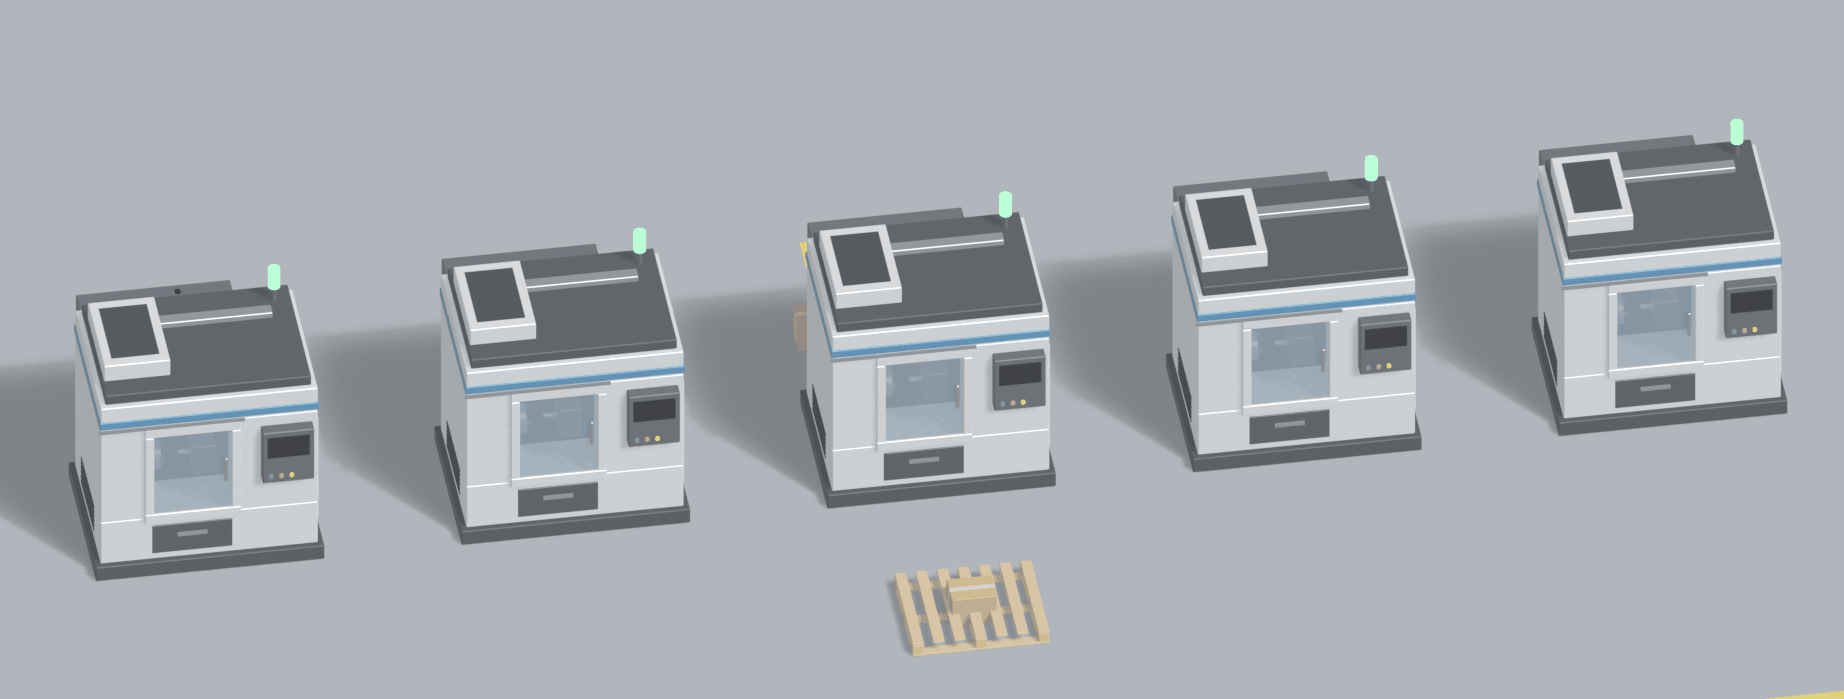
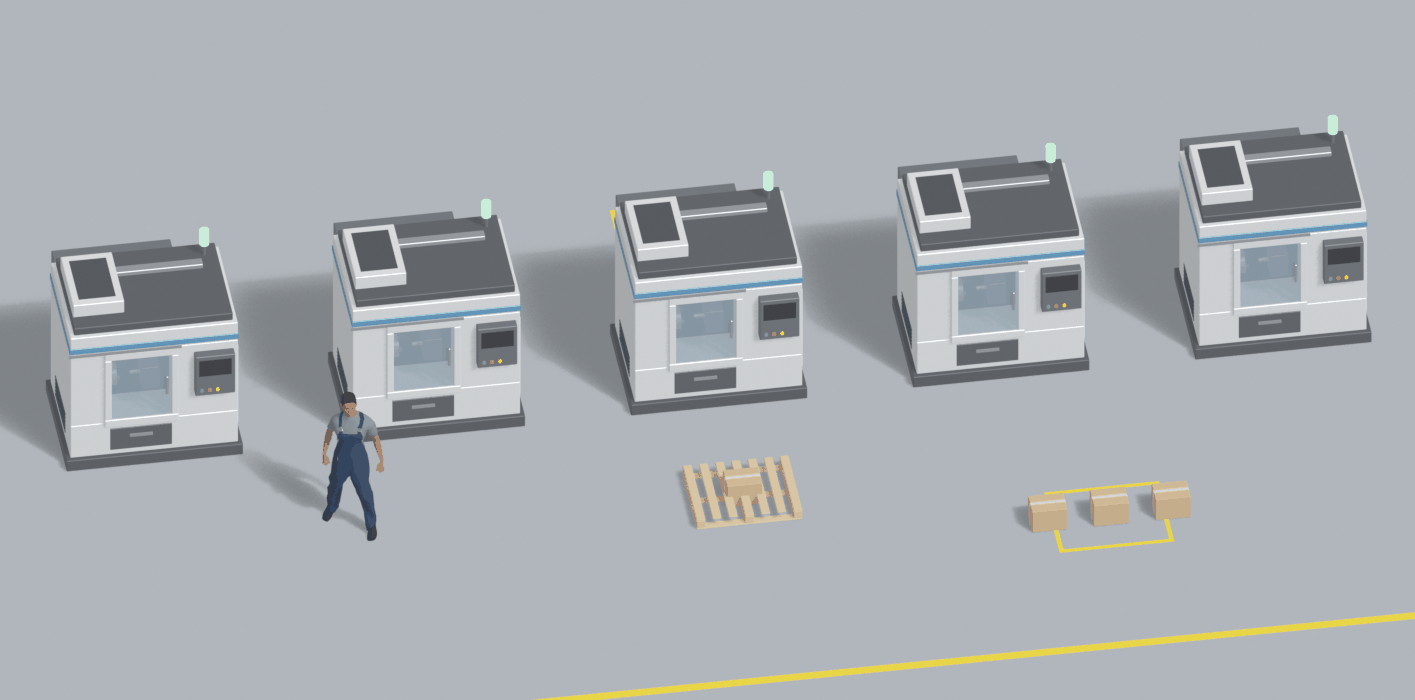
Ensino: rodada de jogo da 6.2 e carga mais rápida do pacote
Jogando a missão 6.2 pela tela: as opções com rótulos longos ficam em
coluna (a última se espremia numa coluna de uma letra), o cabeçalho diz
"Missão 6.2" (texto::f_literal) e a imagem da 6.2 tem os 3 tornos do
enunciado. O campo mover da cena traz a operadora e o estoque para a
frente das máquinas nas missões 6.1 e 6.2, só no desenho.

A conferência das métricas de um pacote roda 1/20 da simulação e só a
inteira se faltar uma chave: 0,69 s para 0,12 s na campanha.

diff --git a/crates/utsim-ensino-ui/src/missao.rs b/crates/utsim-ensino-ui/src/missao.rs
@@ -378,13 +378,18 @@ fn alavanca(ui: &mut Ui, a: &Alavanca, v: &mut f64, id: &str) -> bool {
         Alavanca::Escolha { opcoes, rotulo, .. } => {
             ui.label(rotulo);
             let mut sel = v.round().max(0.0) as usize;
-            ui.horizontal_wrapped(|ui| {
-                for (i, o) in opcoes.iter().enumerate() {
-                    let r = if o.custo > 0.0 {
+            let rotulos: Vec<String> = opcoes
+                .iter()
+                .map(|o| {
+                    if o.custo > 0.0 {
                         format!("{} ({})", o.rotulo, dinheiro(o.custo))
                     } else {
                         o.rotulo.clone()
-                    };
+                    }
+                })
+                .collect();
+            em_linha_ou_coluna(ui, &rotulos, |ui| {
+                for (i, r) in rotulos.iter().enumerate() {
                     ui.push_id((id, i), |ui| ui.radio_value(&mut sel, i, r));
                 }
             });
@@ -417,7 +422,7 @@ pub fn tela_missao(app: &mut App, ui: &mut Ui) {
             app.tela = Tela::Mapa;
         }
         ui.label(
-            RichText::new(texto::f(
+            RichText::new(texto::f_literal(
                 texto::missao_numero(),
                 &[&numero_missao(&m.pacote, m.indice)],
             ))
@@ -609,7 +614,8 @@ pub fn tela_missao(app: &mut App, ui: &mut Ui) {
                         Some(RespostaPrevisao::Escolha(i)) => Some(*i),
                         _ => None,
                     };
-                    ui.horizontal_wrapped(|ui| {
+                    let rotulos: Vec<&str> = opcoes.iter().map(|o| o.rotulo.as_str()).collect();
+                    em_linha_ou_coluna(ui, &rotulos, |ui| {
                         for (i, o) in opcoes.iter().enumerate() {
                             if ui.radio(atual == Some(i), &o.rotulo).clicked() {
                                 m.tentativa
@@ -772,7 +778,7 @@ pub fn tela_missao(app: &mut App, ui: &mut Ui) {
         ui.label(RichText::new(texto::missao_justificativa()).strong());
         for (qi, q) in missao.justificativa.iter().enumerate() {
             ui.label(&q.pergunta);
-            ui.horizontal_wrapped(|ui| {
+            em_linha_ou_coluna(ui, &q.opcoes, |ui| {
                 for (i, o) in q.opcoes.iter().enumerate() {
                     let sel = m.tentativa.justificativas.get(qi).copied().flatten() == Some(i);
                     if ui.radio(sel, o).clicked() {
@@ -1263,4 +1269,16 @@ pub fn tela_areia(app: &mut App, ui: &mut Ui) {
             });
         }
     });
+}
+
+/// Options side by side when they are short, one under the other when long: a long label at
+/// the end of a row would wrap into a column one word wide.
+fn em_linha_ou_coluna<S: AsRef<str>>(ui: &mut Ui, rotulos: &[S], conteudo: impl FnOnce(&mut Ui)) {
+    let total: usize = rotulos.iter().map(|r| r.as_ref().chars().count() + 6).sum();
+    // About 7 points a character in the body font.
+    if total as f32 * 7.0 <= ui.available_width() {
+        ui.horizontal_wrapped(conteudo);
+    } else {
+        ui.vertical(conteudo);
+    }
 }

diff --git a/crates/utsim-ensino-core/src/cena.rs b/crates/utsim-ensino-core/src/cena.rs
@@ -46,6 +46,10 @@ pub struct Cena {
     /// Stations drawn without an operator.
     #[serde(default, skip_serializing_if = "Vec::is_empty")]
     pub sem_pessoa: Vec<String>,
+    /// Objects moved in the picture only, `[dx, dy]` in metres of the scene, when the model
+    /// puts them where the camera does not see them (an operator behind her machines).
+    #[serde(default, skip_serializing_if = "BTreeMap::is_empty")]
+    pub mover: BTreeMap<String, [f64; 2]>,
     /// Processors drawn as one element whatever their capacity (an oven that bakes two
     /// at a time is one oven).
     #[serde(default, skip_serializing_if = "Vec::is_empty")]
@@ -351,9 +355,10 @@ impl Cena {
                 let pessoa = (trabalho && !tem_pessoas && !self.sem_pessoa.contains(&o.name))
                     .then(|| self.pessoas.get(&o.name).cloned().unwrap_or_else(&mut sexo));
                 let desvio = (k as f64 - (copias - 1) as f64 / 2.0) * PASSO_COPIAS;
+                let [mx, my] = self.mover.get(&o.name).copied().unwrap_or([0.0, 0.0]);
                 let (mut x, y) = (
-                    o.position[0] * self.escala,
-                    o.position[1] * self.escala + desvio,
+                    o.position[0] * self.escala + mx,
+                    o.position[1] * self.escala + desvio + my,
                 );
                 // Mobile resources start on the same spot (four AGVs at the dock): side by
                 // side, so all of them show.
@@ -461,6 +466,7 @@ impl Cena {
             .chain(&self.ocultar)
             .chain(&self.sem_pessoa)
             .chain(&self.sem_copias)
+            .chain(self.mover.keys())
             .chain(self.pessoas.keys())
             .chain(self.pecas.iter().map(|p| &p.no))
         {

diff --git a/crates/utsim-ensino-core/src/validar.rs b/crates/utsim-ensino-core/src/validar.rs
@@ -248,14 +248,28 @@ pub fn validar_missao(missao: &Missao, modelo: &Model) -> Result<(), Vec<String>
         }
     }
     if erros.is_empty() && !do_modelo.is_empty() {
-        let mut m = modelo.clone();
-        m.run.replications = 1;
-        match m.run_replications() {
-            Ok(reports) => {
-                let conhecidas: BTreeSet<String> = reports
+        // The keys of the model come from a run. A short one (a twentieth of the horizon)
+        // usually shows them all; a key that only appears with a rare event (a breakdown)
+        // asks for the whole run, as the student's.
+        let rodar = |fracao: f64| {
+            let mut m = modelo.clone();
+            m.run.replications = 1;
+            let w = m.run.warmup.max(0.0);
+            m.run.stop_time = w + (m.run.stop_time - w).max(0.0) * fracao;
+            m.run_replications().map(|reports| {
+                reports
                     .iter()
                     .flat_map(|r| r.metrics().into_keys())
-                    .collect();
+                    .collect::<BTreeSet<String>>()
+            })
+        };
+        let faltam = |c: &BTreeSet<String>| do_modelo.iter().any(|(_, k)| !c.contains(k));
+        let conhecidas = match rodar(0.05) {
+            Ok(c) if !faltam(&c) => Ok(c),
+            _ => rodar(1.0),
+        };
+        match conhecidas {
+            Ok(conhecidas) => {
                 for (onde, k) in do_modelo {
                     if !conhecidas.contains(&k) {
                         erros.push(format!("'{onde}': a métrica '{k}' não sai do modelo"));

diff --git a/crates/utsim-ensino-core/tests/cena.rs b/crates/utsim-ensino-core/tests/cena.rs
@@ -343,3 +343,29 @@ fn modelagem_desenha_o_gabarito_sem_copias() {
     let forno = p.objetos.iter().find(|o| o.nome == "forno").unwrap();
     assert_eq!(forno.elemento, "cnc");
 }
+
+#[test]
+fn mover_tira_a_operadora_de_tras_das_maquinas() {
+    let (m, modelo) = com_cena()
+        .into_iter()
+        .find(|(m, _)| m.id == "ato6/trabalho_externo")
+        .unwrap();
+    let c = m.cena.as_ref().unwrap();
+    let p = c.planta(&modelo, None);
+    // Ana stands at y = 1 in the model, behind the machines; the picture brings her to the
+    // front (the camera looks from -y), and the simulation keeps her place.
+    let ana = p.objetos.iter().find(|o| o.nome == "ana").unwrap();
+    assert!(ana.y < 0.0, "{}", ana.y);
+    assert_eq!(
+        modelo
+            .objects
+            .iter()
+            .find(|o| o.name == "ana")
+            .unwrap()
+            .position[1],
+        1.0
+    );
+    // Three lathes, as the statement says.
+    let maquinas = p.objetos.iter().filter(|o| o.elemento == "cnc").count();
+    assert_eq!(maquinas, 3);
+}

diff --git a/crates/utsim-ensino-ui/src/texto.rs b/crates/utsim-ensino-ui/src/texto.rs
@@ -45,6 +45,18 @@ pub fn f(modelo: Modelo, valores: &[&dyn Display]) -> String {
     TEXTOS.f(modelo.chave, &args)
 }
 
+/// Like [`f`], with every value kept as written: a mission number `6.2` is not a decimal
+/// (it would become `6,2`).
+pub fn f_literal(modelo: Modelo, valores: &[&str]) -> String {
+    let args: Vec<(&str, utsim_idiomas::Valor)> = modelo
+        .nomes
+        .iter()
+        .zip(valores)
+        .map(|(n, v)| (*n, v.to_string().into()))
+        .collect();
+    TEXTOS.f(modelo.chave, &args)
+}
+
 fn valor(s: String) -> utsim_idiomas::Valor<'static> {
     if let Ok(n) = s.parse::<i64>()
         && n.to_string() == s

diff --git a/crates/utsim-ensino-core/src/editor_cena.rs b/crates/utsim-ensino-core/src/editor_cena.rs
@@ -200,6 +200,7 @@ impl Edicao {
             ocultar: Vec::new(),
             sem_pessoa: Vec::new(),
             sem_copias: Vec::new(),
+            mover: BTreeMap::new(),
             pessoas: BTreeMap::new(),
             pecas: Vec::new(),
             cartoes,

diff --git a/CHANGELOG.md b/CHANGELOG.md
@@ -7,6 +7,8 @@ O formato segue o [Keep a Changelog](https://keepachangelog.com/pt-BR/1.1.0/) e 
 ## [Não lançado]
 
 ### Mudado
+- UTSim Ensino, rodada de jogo (missão 6.2 do começo ao fim): as opções de uma alavanca, de uma previsão ou de uma justificativa com rótulos longos ficam uma embaixo da outra (antes, a última se espremia numa coluna de uma letra por linha); o cabeçalho mostra "Missão 6.2", não "6,2"; a imagem da 6.2 tem os 3 tornos do enunciado, e a operadora Ana e o estoque aparecem na frente das máquinas nas missões 6.1 e 6.2 (campo `mover` da cena, só no desenho).
+- UTSim Ensino abre mais rápido: ao carregar um pacote, a conferência das métricas roda primeiro 1/20 da simulação e só roda a simulação inteira se faltar alguma chave (a campanha passou de 0,69 s para 0,12 s nessa etapa, no modo de testes).
 - Tradução, rodada 8 (parte 1): o editor do simulador (UTSim 3D) segue a língua escolhida na barra do topo (seletor ao lado das câmeras, guardado em `editor.json`). Entram nesta parte a barra, os diálogos Salvar como, Novo modelo e Atalhos, o painel da simulação com as estatísticas, as camadas Rede e Fluidos, a Biblioteca, a lista de objetos, a seleção múltipla e as ligações (`editor.ftl`). Os roteiros de teste rodam sempre em português, porque acham os botões pelo nome
 - UTSim Ensino: a padaria (ato 7, "Do enunciado ao modelo") ganhou o enunciado desenhado. Numa missão de modelagem, a cena desenha o gabarito, com cartões que só repetem os números do texto, e a câmara e o forno aparecem como um elemento cada (campo `sem_copias` da cena). O editor de missões também desenha o gabarito ao sugerir e ao gerar a cena de uma missão de modelagem.
 - UTSim Ensino: o instalador leva os elementos 3D (`assets/modelos3d` e os clipes das pessoas), e "Gerar a imagem" do editor de missões funciona no computador do professor só com o Blender instalado. O app procura os elementos primeiro na pasta instalada e depois em `UTSIM_ELEMENTOS_3D`. Sem o Blender, o editor explica o que fazer e mostra o link do site oficial (blender.org); não instala nada.

diff --git a/docs/plano_ensino_e_jogo.md b/docs/plano_ensino_e_jogo.md
@@ -335,6 +335,9 @@ produto desenhado.
   os números do texto. `sem_copias` desenha um processador como um elemento só, qualquer que
   seja a capacidade (a câmara de 10 massas é uma estante, o forno de 2 é um forno), para não
   sugerir como modelar a capacidade.
+- **Mover só no desenho.** `mover: {"ana": (2.0, -3.0)}` desloca um objeto na imagem, em
+  metros da cena, quando o modelo o põe onde a câmera não vê (a operadora atrás dos tornos).
+  A simulação não muda.
 
 ## 4. Recursos do professor
 
